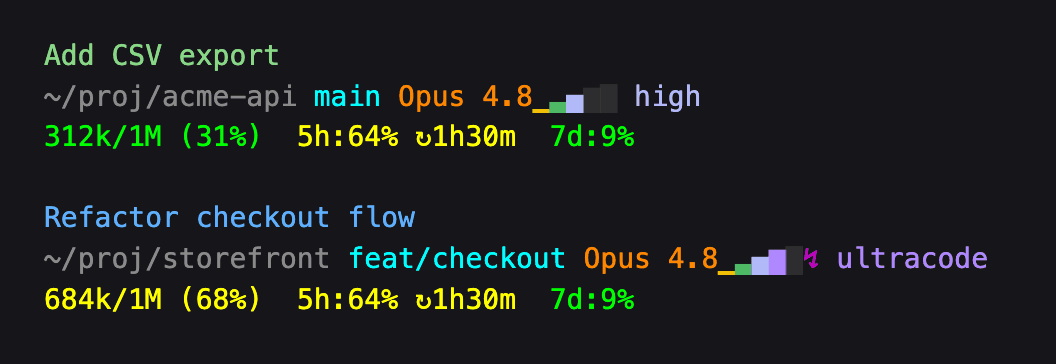
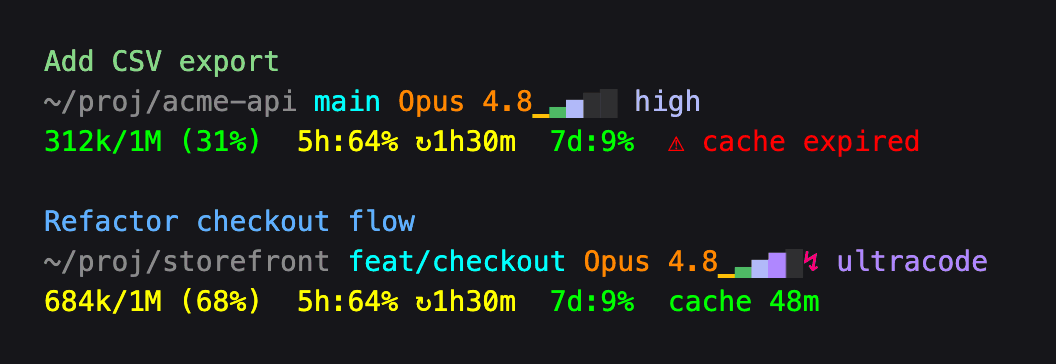
Re-render README screenshot with the prompt-cache countdown
Same harness as before (real statusline.sh output -> HTML -> headless Chrome at 2x,
quantized to 128 colors): one session with an expired cache, one with 48m left.

diff --git a/README.md b/README.md
@@ -2,7 +2,7 @@
 
 A lightweight multi-line status line for [Claude Code](https://www.claude.com/product/claude-code): session name, git branch, model, effort level, context window, 5h / 7d rate limits, and a prompt-cache countdown. One Bash script, nothing to install.
 
-![Two Claude Code sessions: session name colored per project; directory, branch, model and effort bar; context usage and rate limits](assets/screenshot.png)
+![Two Claude Code sessions: session name colored per project; directory, branch, model and effort bar; context usage, rate limits and prompt-cache countdown, one expired and one with 48 minutes left](assets/screenshot.png)
 
 ## Why another status line?
 
